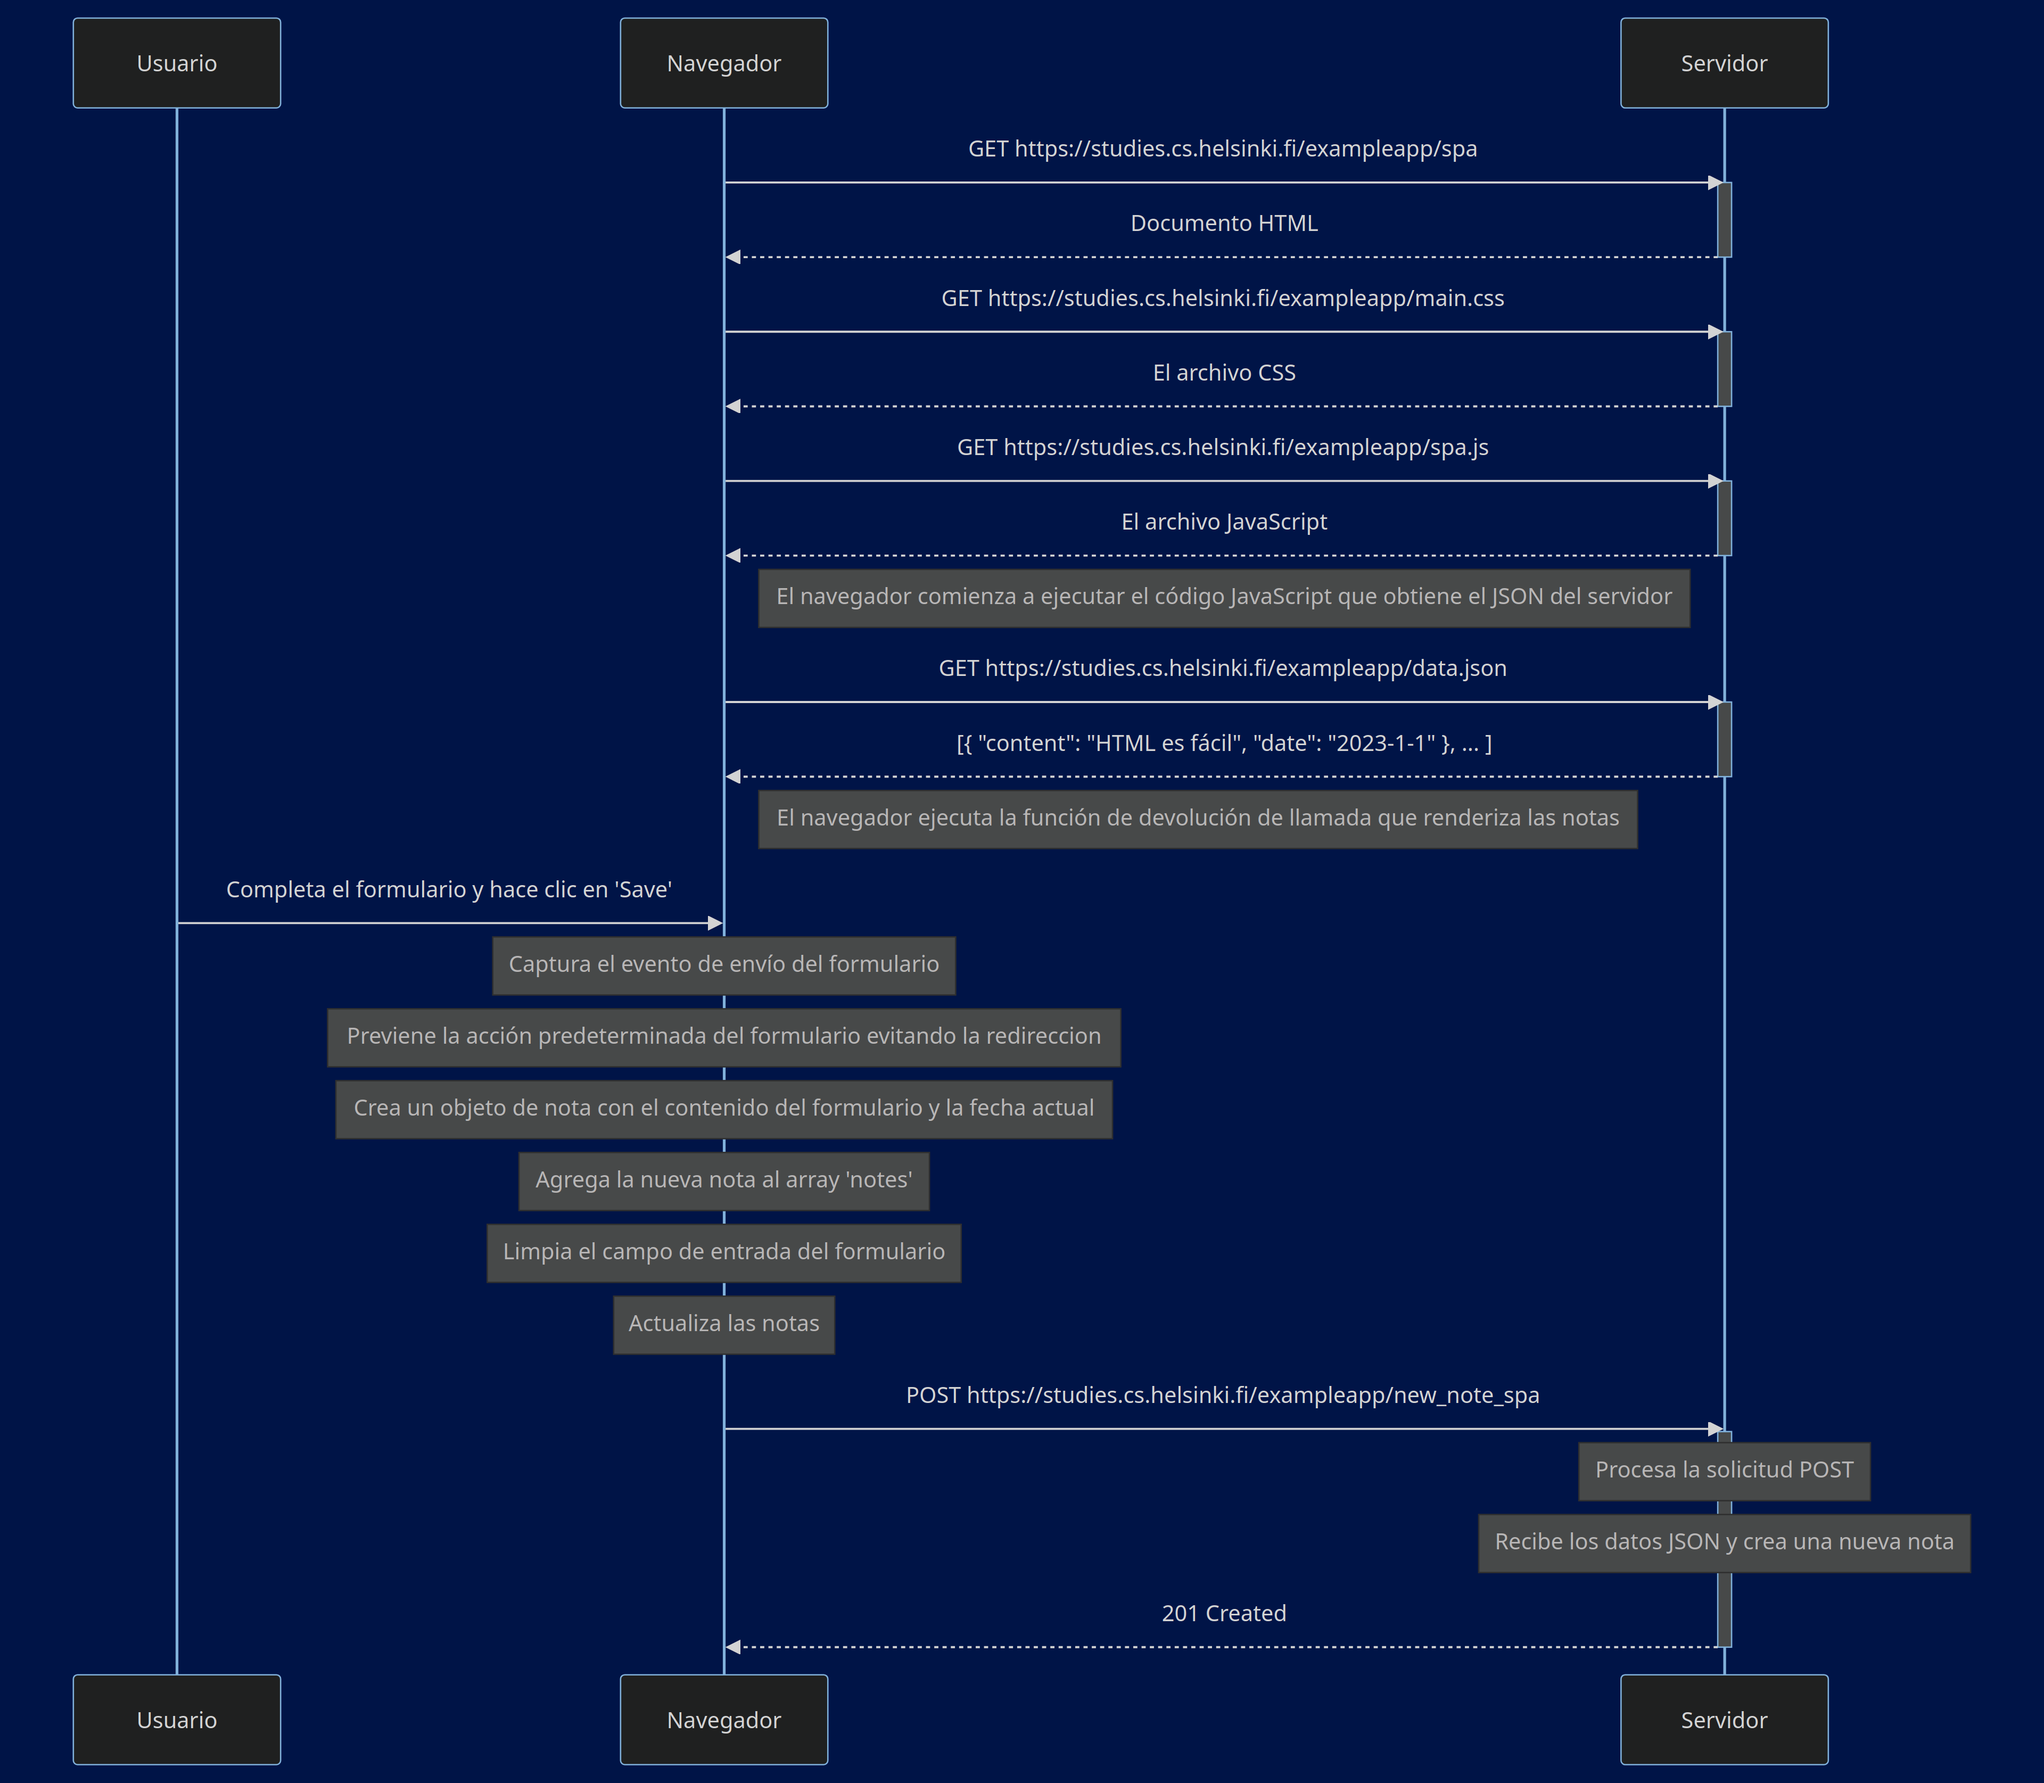
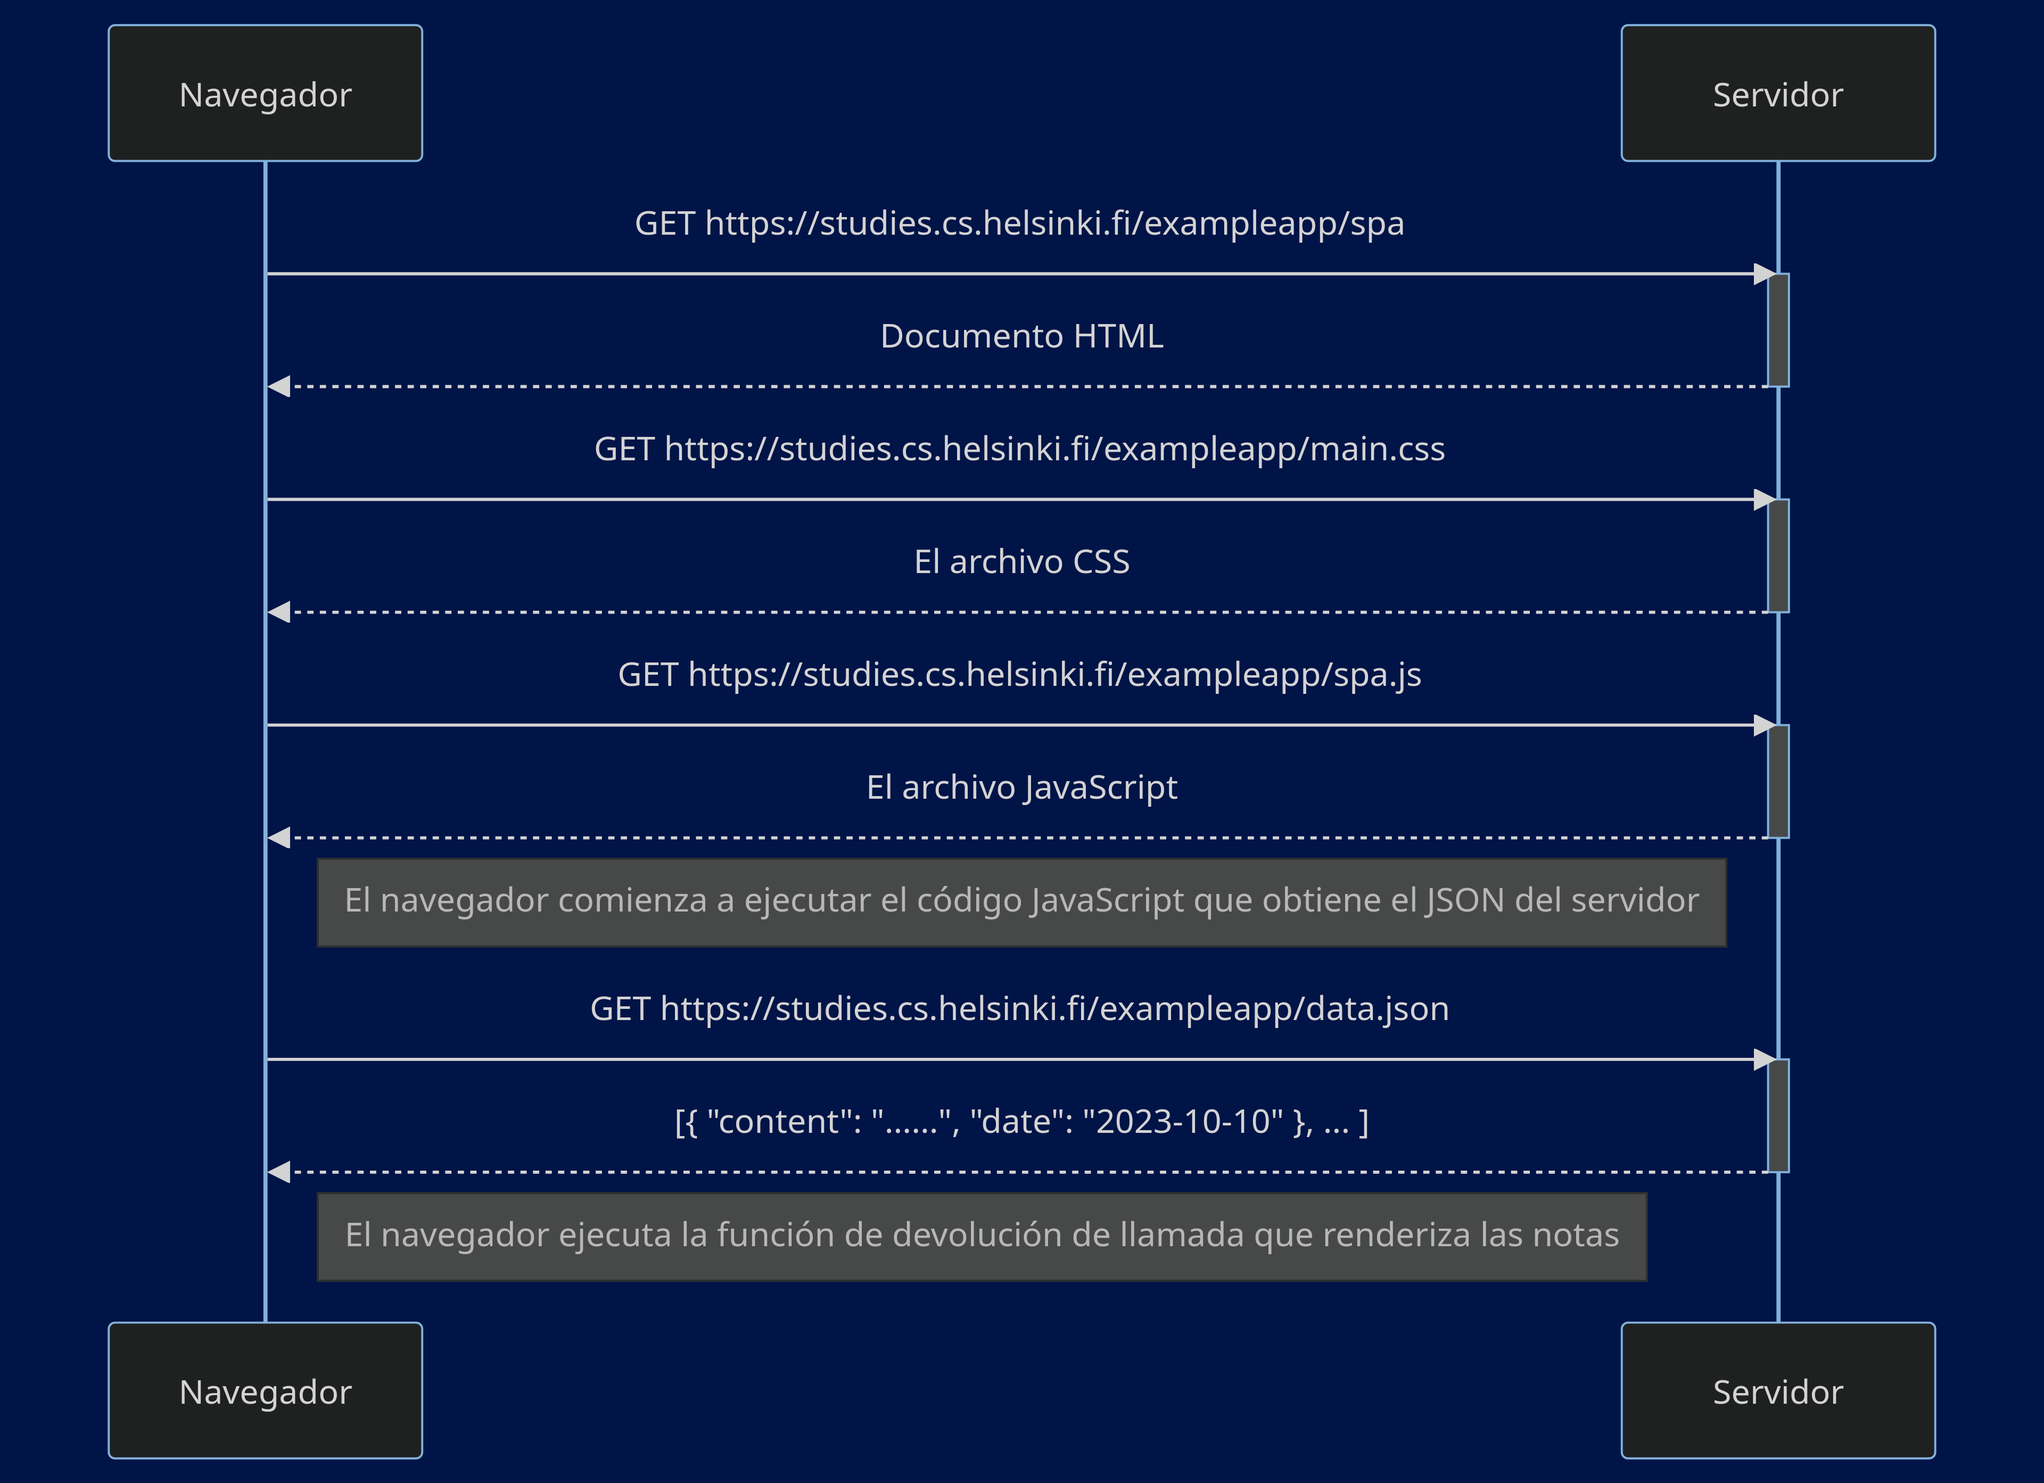
Modifico ejercicios

diff --git a/part0/ejercicio0.5.md b/part0/ejercicio0.5.md
@@ -1,5 +1,4 @@
 sequenceDiagram
-    participant Usuario
     participant Navegador
     participant Servidor
 
@@ -22,31 +21,7 @@ sequenceDiagram
 
     Navegador->>Servidor: GET https://studies.cs.helsinki.fi/exampleapp/data.json
     activate Servidor
-    Servidor-->>Navegador: [{ "content": "HTML es fácil", "date": "2023-1-1" }, ... ]
+    Servidor-->>Navegador: [{ "content": "......", "date": "2023-10-10" }, ... ]
     deactivate Servidor
 
     Note right of Navegador: El navegador ejecuta la función de devolución de llamada que renderiza las notas
-
-    Usuario->>Navegador: Completa el formulario y hace clic en 'Save'
-
-    Note over Navegador: Captura el evento de envío del formulario
-
-    Note over Navegador: Previene la acción predeterminada del formulario evitando la redireccion
-
-    Note over Navegador: Crea un objeto de nota con el contenido del formulario y la fecha actual
-
-    Note over Navegador: Agrega la nueva nota al array 'notes'
-
-    Note over Navegador: Limpia el campo de entrada del formulario
-
-    Note over Navegador: Actualiza las notas
-
-    Navegador->>Servidor: POST https://studies.cs.helsinki.fi/exampleapp/new_note_spa
-
-    activate Servidor
-
-    Note over Servidor: Procesa la solicitud POST
-    Note over Servidor: Recibe los datos JSON y crea una nueva nota
-    Servidor-->>Navegador: 201 Created
-
-    deactivate Servidor

diff --git a/part0/ejercicio0.4.md b/part0/ejercicio0.4.md
@@ -3,30 +3,6 @@ sequenceDiagram
     participant Navegador
     participant Servidor
 
-    Navegador->>Servidor: GET https://studies.cs.helsinki.fi/exampleapp/notes
-    activate Servidor
-    Servidor-->>Navegador: Documento HTML
-    deactivate Servidor
-
-    Navegador->>Servidor: GET https://studies.cs.helsinki.fi/exampleapp/main.css
-    activate Servidor
-    Servidor-->>Navegador: El archivo CSS
-    deactivate Servidor
-
-    Navegador->>Servidor: GET https://studies.cs.helsinki.fi/exampleapp/main.js
-    activate Servidor
-    Servidor-->>Navegador: El archivo JavaScript
-    deactivate Servidor
-
-    Note right of Navegador: El navegador comienza a ejecutar el código JavaScript que obtiene el JSON del servidor
-
-    Navegador->>Servidor: GET https://studies.cs.helsinki.fi/exampleapp/data.json
-    activate Servidor
-    Servidor-->>Navegador: [{ "content": "HTML es fácil", "date": "2023-1-1" }, ... ]
-    deactivate Servidor
-
-    Note right of Navegador: El navegador ejecuta la función de devolución de llamada que renderiza las notas
-
     Usuario->>Navegador: Completa el formulario y hace clic en 'Save'
     Navegador->>Servidor: POST https://studies.cs.helsinki.fi/exampleapp/new_note
 
